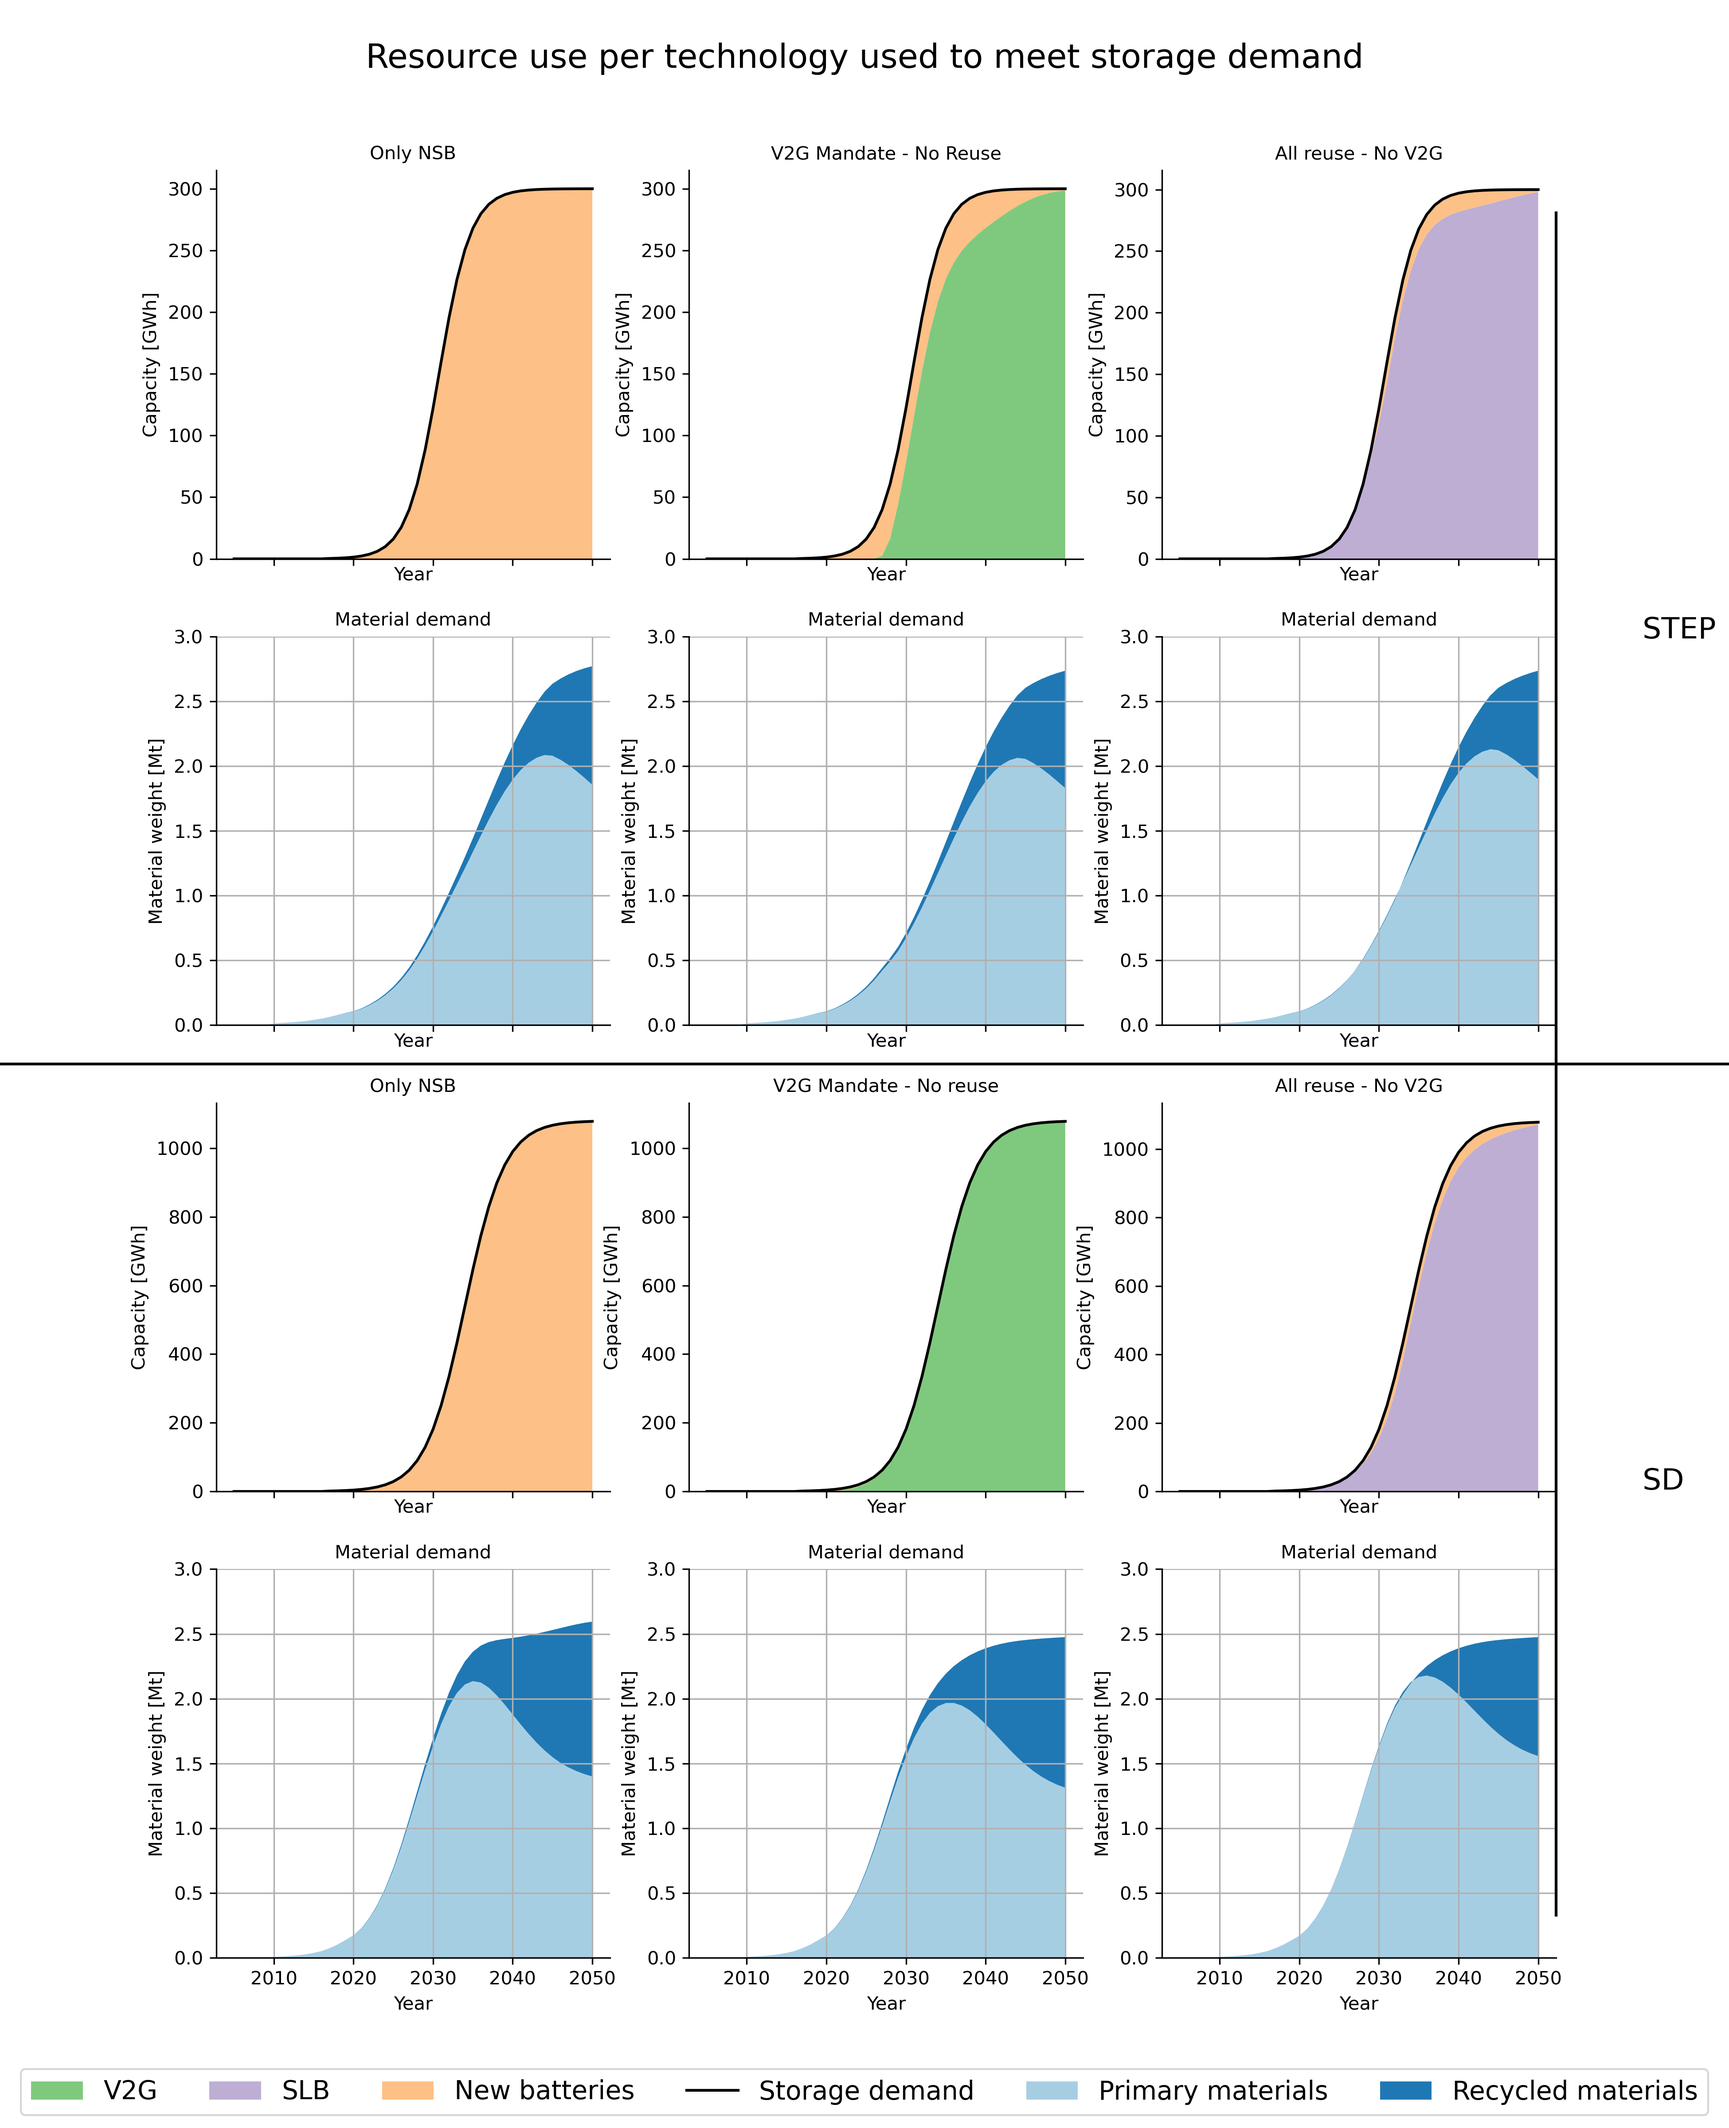
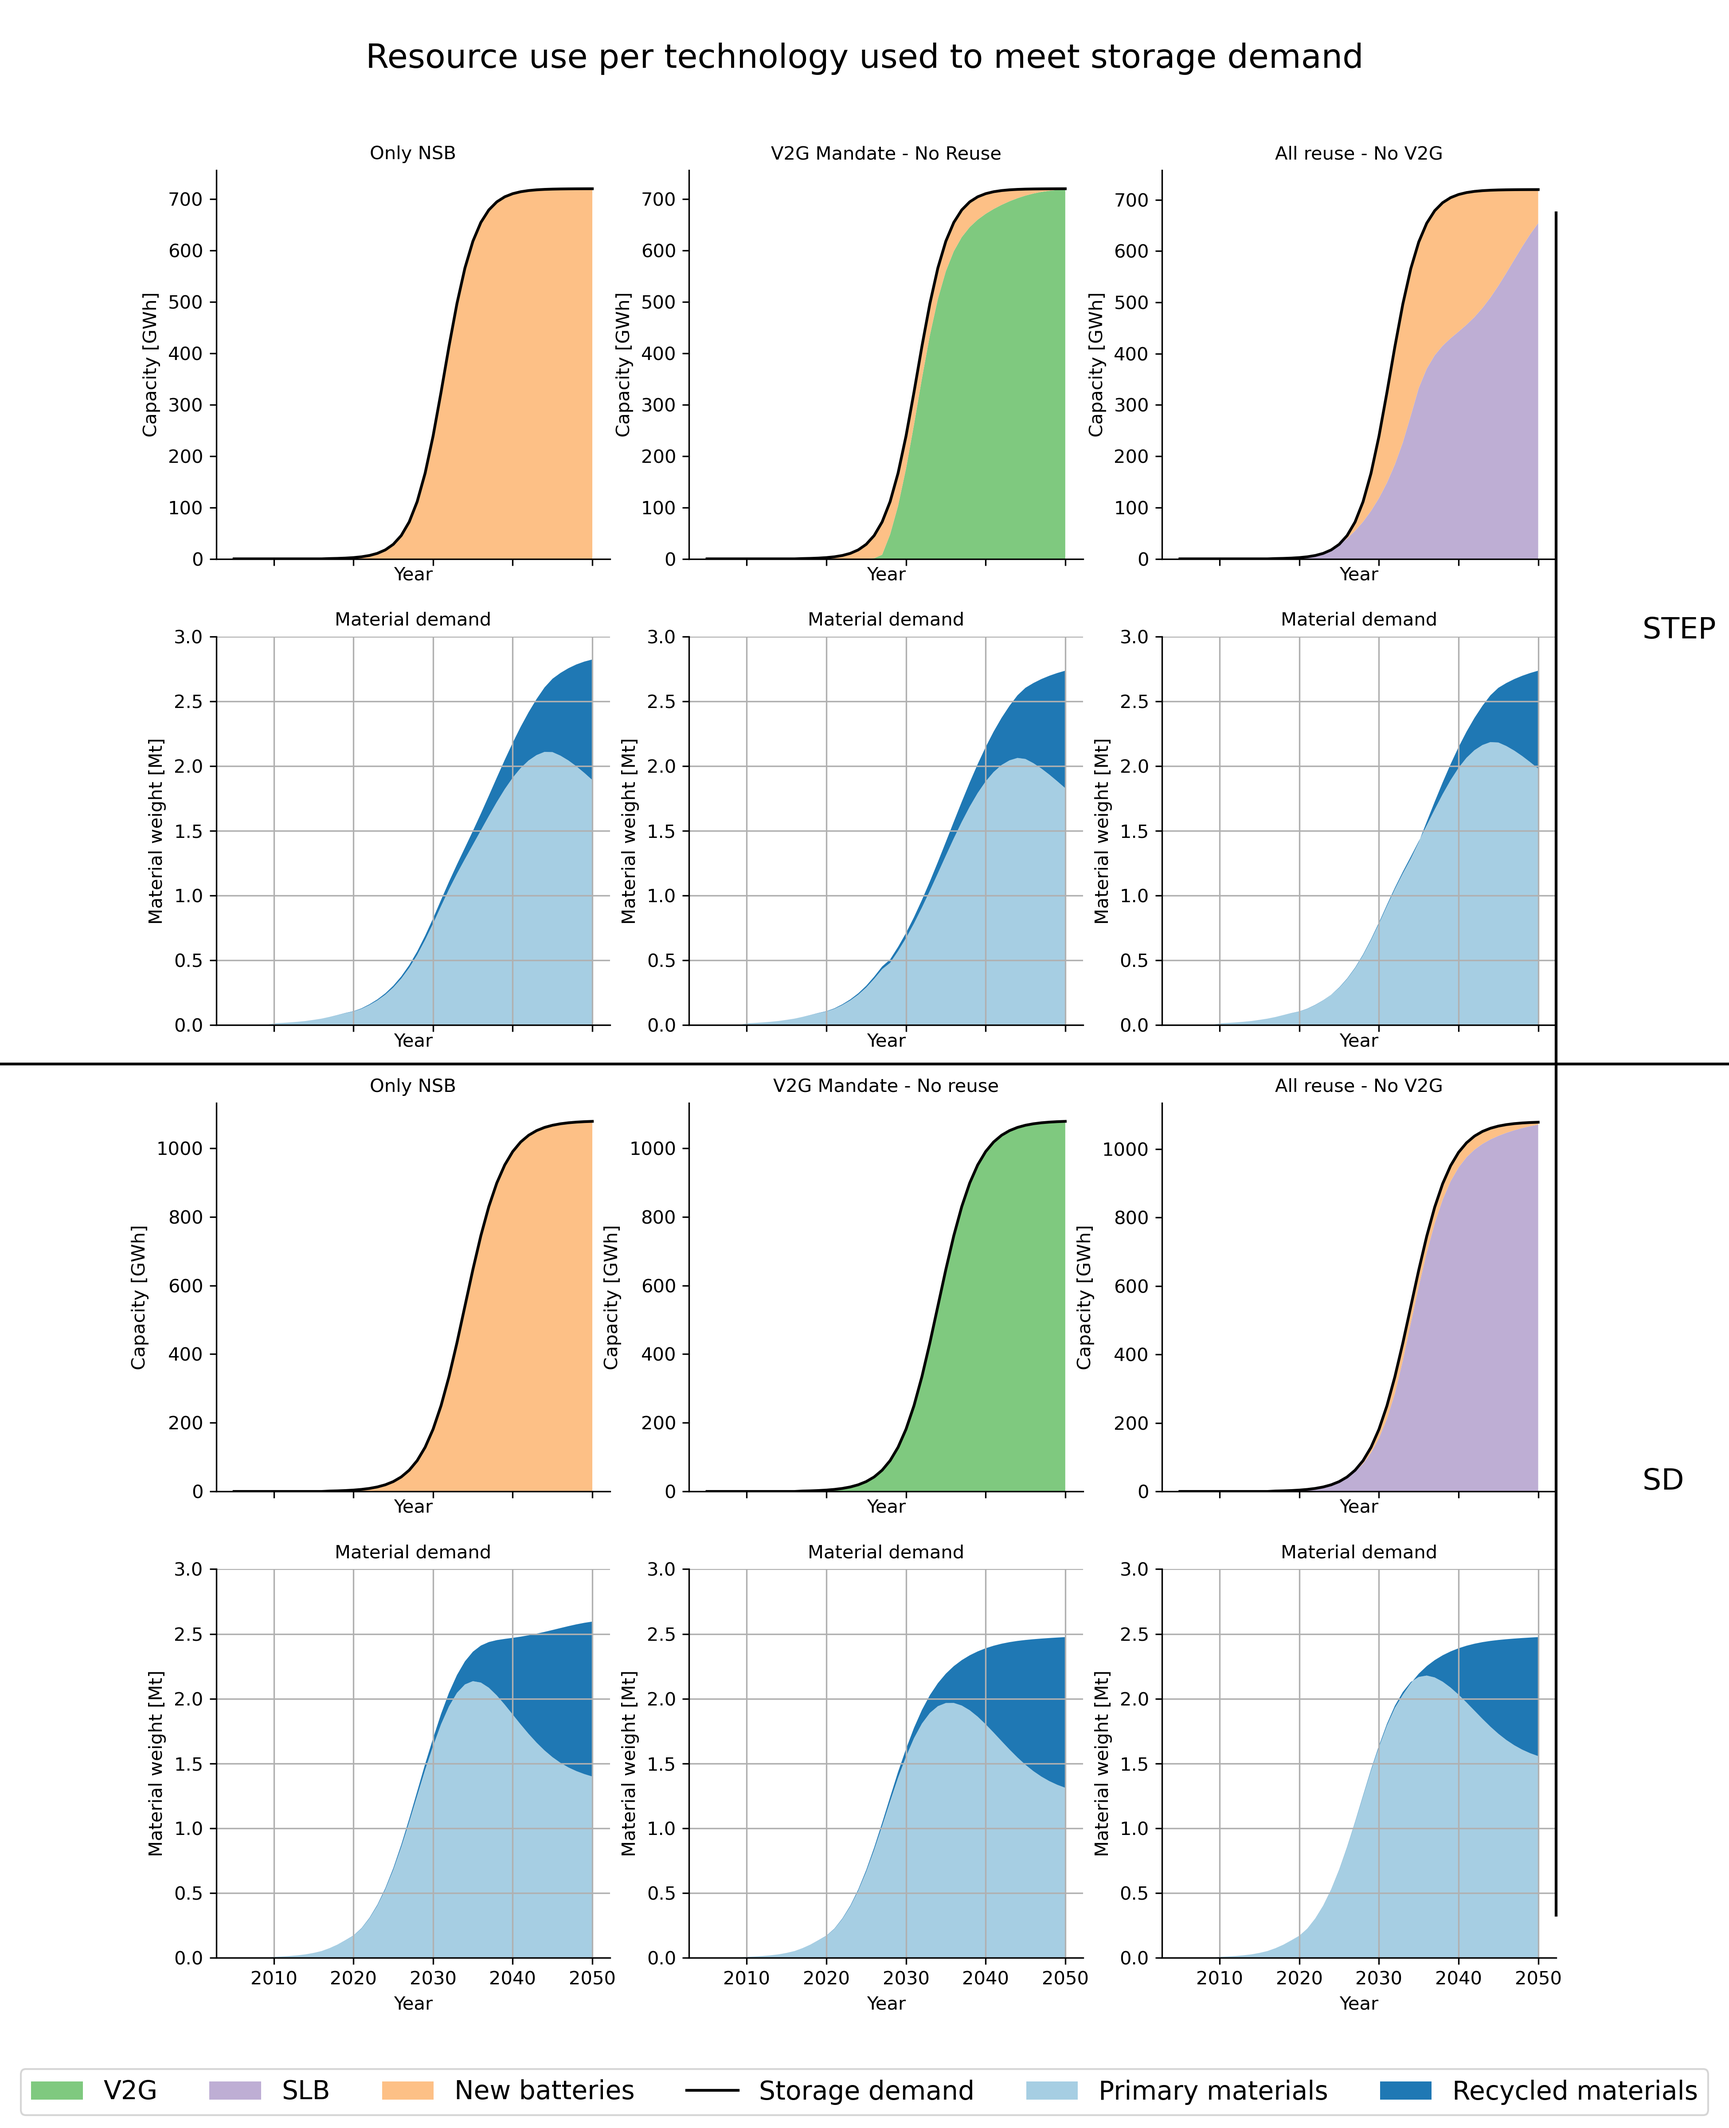
First debugging session

diff --git a/Model_constrained.py b/Model_constrained.py
@@ -421,7 +421,7 @@ MaTrace_System.StockDict['Pow_5_NSB']   = msc.Stock(Name = 'Power of NSBs', P_Re
 MaTrace_System.FlowDict['C_2_3_max'] =  msc.Flow(Name = 'Capacity of vehicles equiped with V2G', P_Start = 1, P_End = 6,
                                             Indices = 'z,S,a,v,g,s,b,t', Values=None) # Only in terms of capacity
 MaTrace_System.FlowDict['C_2_3_real'] =  msc.Flow(Name = 'Capacity of vehicles equiped with V2G', P_Start = 1, P_End = 6,
-                                            Indices = 'z,S,a,R,v,E,t', Values=None) # Only in terms of capacity
+                                            Indices = 'z,S,a,R,v,E,b,t', Values=None) # Only in terms of capacity
 MaTrace_System.FlowDict['C_1_5'] =  msc.Flow(Name = 'New LIBs for stationary storage ', P_Start = 1, P_End = 6,
                                             Indices = 'z,S,a,R,v,E,b,t', Values=None) # Only in terms of capacity
 MaTrace_System.FlowDict['C_4_5'] =  msc.Flow(Name = 'Used LIBs for stationary storage ', P_Start = 1, P_End = 6,
@@ -562,8 +562,7 @@ inflows = np.einsum('zSaRvEgsbtc->zSaRvEgsbt',MaTrace_System.FlowDict['B_4_5'].V
 SLB_available = np.einsum('zSaRvEgsbt, gst->zSaRvEgsbt',inflows, MaTrace_System.ParameterDict['Capacity'].Values[:,:,:]) * 0.8 
 # Calculate the maximum amount of vehicles that can be equipped with V2G. We assume that the plug-ratio is 50% and park ratio is also 50%. Therefore we use factor 0.25
 MaTrace_System.FlowDict['C_2_3_max'].Values[:,:,:,:,:,:,:,:]         = np.einsum('vgt, zSagsbt->zSavgsbt',MaTrace_System.ParameterDict['V2G_rate'].Values[:,:,:], \
-    np.einsum('btc,zSagsbtc->zSagsbt', MaTrace_System.ParameterDict['Degradation_fleet'].Values[:,:,:], \
-                np.einsum('zSagsbt, gsc->zSagsbtc', MaTrace_System.FlowDict['B_2_3'].Values[:,:,:,:,:,:,:], MaTrace_System.ParameterDict['Capacity'].Values[:,:,:]))) *0.25
+                np.einsum('zSagsbt, gsc->zSagsbt', MaTrace_System.FlowDict['B_2_3'].Values[:,:,:,:,:,:,:], MaTrace_System.ParameterDict['Capacity'].Values[:,:,:])) *0.25
 # Calculate total capacity needed for vehicle fleet
 ev_fleet_capacity = np.einsum('zSagsbt, gsc->zSat', MaTrace_System.FlowDict['B_2_3'].Values[:,:,:,:,:,:,:], MaTrace_System.ParameterDict['Capacity'].Values[:,:,:])
 '''
@@ -582,6 +581,8 @@ installed_slbs = np.zeros((Nz, NS ,Na, NR, Nv, NE, Nt))
 share_reused = np.zeros((Nz, NS ,Na, NR, Nv, NE, Nt))
 capacity_stock = np.zeros((Nz, NS, Na, NR, Nv, NE, Ng, Ns, Nb, Nt, Nt)) # Stock in terms of total capacity without degradation
 capacity_outflow = np.zeros((Nz, NS, Na, NR, Nv, NE, Ng, Ns, Nb, Nt))
+stock_max = np.zeros((Nz, NS, Na, Nv, Nt,Nt))
+stock_total = np.zeros((Nz, NS, Na, Nv, Nt))
 
 # Do not compute all chemistry scenarios
 a = 4 # Only BNEF as baseline
@@ -594,14 +595,16 @@ for z in range(1):
                     for E in range(NE):
                         for t in range(Nt):
                             # If the demand exceeds installed capacity and potential V2G, install all V2G available
+                            stock_max[z,S,a,v,t::,t] = np.einsum('gsb,bt->t', MaTrace_System.FlowDict['C_2_3_max'].Values[z,S,a,v,:,:,:,t], MaTrace_System.ParameterDict['Degradation_fleet'].Values[:,t::,t]) * Model.sf_pr[t::,t] 
+                            stock_total[z,S,a,v,t] = stock_max[z,S,a,v,t,:].sum()
                             if MaTrace_System.StockDict['C_3'].Values[z,S,a,R,v,E,t] \
                                 + MaTrace_System.StockDict['C_5_SLB'].Values[z,S,a,R,v,E,t] \
                                     + MaTrace_System.StockDict['C_5_NSB'].Values[z,S,a,R,v,E,t] \
                                         + np.sum(MaTrace_System.FlowDict['C_2_3_max'].Values[z,S,a,v,:,:,:,t])\
                                         <  MaTrace_System.ParameterDict['Storage_demand'].Values[E,t]:
-                                        MaTrace_System.FlowDict['C_2_3_real'].Values[z,S,a,R,v,E,t]   = np.sum(MaTrace_System.FlowDict['C_2_3_max'].Values[z,S,a,v,:,:,:,t])
+                                        MaTrace_System.FlowDict['C_2_3_real'].Values[z,S,a,R,v,E,:,t]   = np.einsum('gsb->b',MaTrace_System.FlowDict['C_2_3_max'].Values[z,S,a,v,:,:,:,t])
                                         # FIXME: Currently assuming all chemistries degrade the same in the fleet
-                                        MaTrace_System.StockDict['C_3_tc'].Values[z,S,a,R,v,E,t::,t]        = MaTrace_System.FlowDict['C_2_3_real'].Values[z,S,a,R,v,E,t] * Model.sf_pr[t::,t] 
+                                        MaTrace_System.StockDict['C_3_tc'].Values[z,S,a,R,v,E,t::,t]        = np.einsum('b,bt->t', MaTrace_System.FlowDict['C_2_3_real'].Values[z,S,a,R,v,E,:,t], MaTrace_System.ParameterDict['Degradation_fleet'].Values[:,t::,t]) * Model.sf_pr[t::,t] 
                                         MaTrace_System.StockDict['C_3'].Values[z,S,a,R,v,E,:]               = np.einsum('tc->t',MaTrace_System.StockDict['C_3_tc'].Values[z,S,a,R,v,E,:,:])
                                         # If there is still demand after V2G is installed, and the available SLBs are all needed, we install all SLBs
                                         if MaTrace_System.StockDict['C_3'].Values[z,S,a,R,v,E,t] \
@@ -644,9 +647,9 @@ for z in range(1):
                                                         
                                             MaTrace_System.StockDict['C_5_SLB'].Values[z,S,a,R,v,E,:]               = np.einsum('gsbtc->t', MaTrace_System.StockDict['C_5_SLB_tc'].Values[z,S,a,R,v,E,:,:,:,:,:])
                             else: 
-                                MaTrace_System.FlowDict['C_2_3_real'].Values[z,S,a,R,v,E,t] = max(MaTrace_System.ParameterDict['Storage_demand'].Values[E,t] - MaTrace_System.StockDict['C_5_SLB'].Values[z,S,a,R,v,E,t]\
-                                           - MaTrace_System.StockDict['C_3'].Values[z,S,a,R,v,E,t] - MaTrace_System.StockDict['C_5_NSB'].Values[z,S,a,R,v,E,t], 0)
-                                MaTrace_System.StockDict['C_3_tc'].Values[z,S,a,R,v,E,t::,t]        = MaTrace_System.FlowDict['C_2_3_real'].Values[z,S,a,R,v,E,t] * Model.sf_pr[t::,t] #* MaTrace_System.ParameterDict['Degradation_fleet'].Values[0,t::,t]
+                                MaTrace_System.FlowDict['C_2_3_real'].Values[z,S,a,R,v,E,:,t] = max(MaTrace_System.ParameterDict['Storage_demand'].Values[E,t] - MaTrace_System.StockDict['C_5_SLB'].Values[z,S,a,R,v,E,t]\
+                                           - MaTrace_System.StockDict['C_3'].Values[z,S,a,R,v,E,t] - MaTrace_System.StockDict['C_5_NSB'].Values[z,S,a,R,v,E,t], 0) * MaTrace_System.ParameterDict['Battery_chemistry_shares'].Values[a,1,:,t]
+                                MaTrace_System.StockDict['C_3_tc'].Values[z,S,a,R,v,E,t::,t]        = MaTrace_System.FlowDict['C_2_3_real'].Values[z,S,a,R,v,E,:,t].sum(axis=0) * Model.sf_pr[t::,t] * MaTrace_System.ParameterDict['Degradation_fleet'].Values[0,t::,t]
                                 MaTrace_System.StockDict['C_3'].Values[z,S,a,R,v,E,:]               = np.einsum('tc->t',MaTrace_System.StockDict['C_3_tc'].Values[z,S,a,R,v,E,:,:])
                         # Calculate outflows
                             # if t > 0:
@@ -1339,7 +1342,7 @@ def plot_energy_resource_multi():
     a = 4 # NCX, LFP, Next_Gen, Roskill
     R = 0 # LFP reused, no reuse, all reuse
     v = 0 # No V2G, Low,  medium, high, v2g mandate,  early
-    e = 0 # Low, medium, high, CP4All
+    e =1 # Low, medium, high, CP4All
     fig, ax = plt.subplots(4,3,figsize=(13,16), sharex=True)
     ax[0,0].set_prop_cycle(custom_cycler)
     ax[0,0].stackplot(MaTrace_System.IndexTable['Classification']['Time'].Items[55::], 
